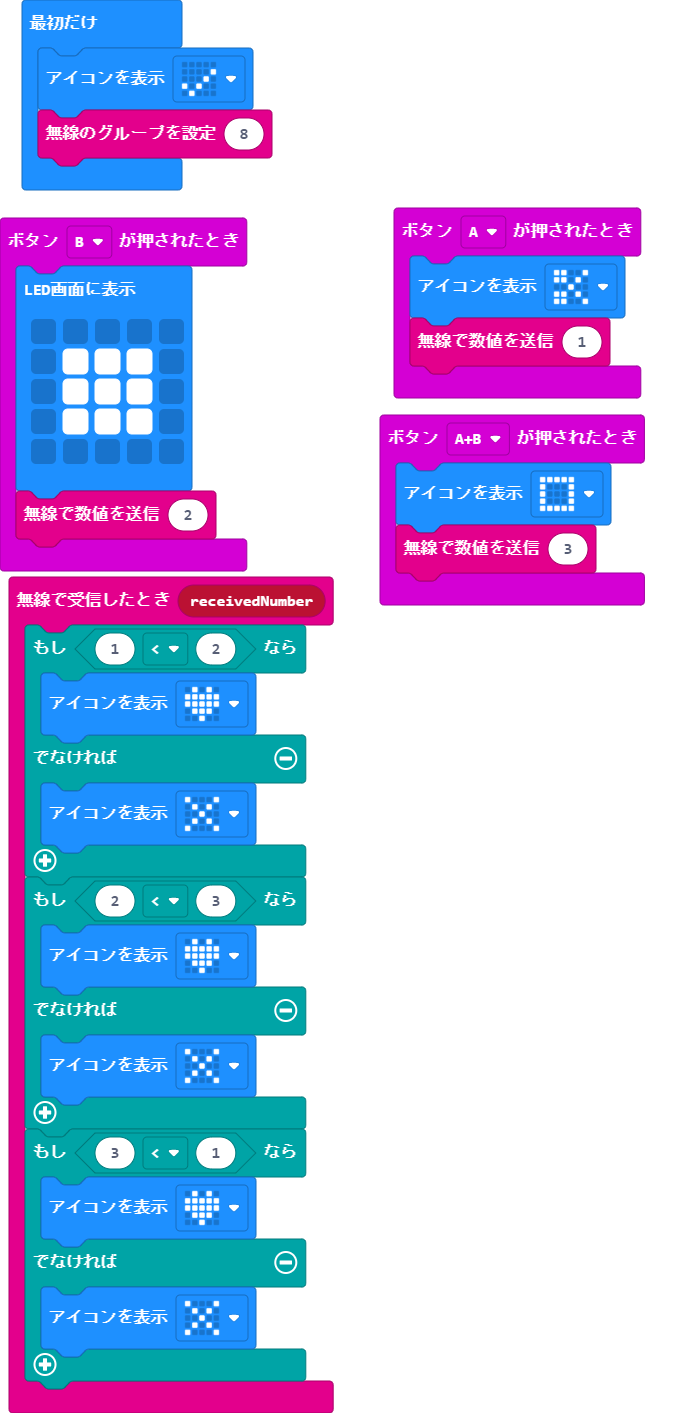
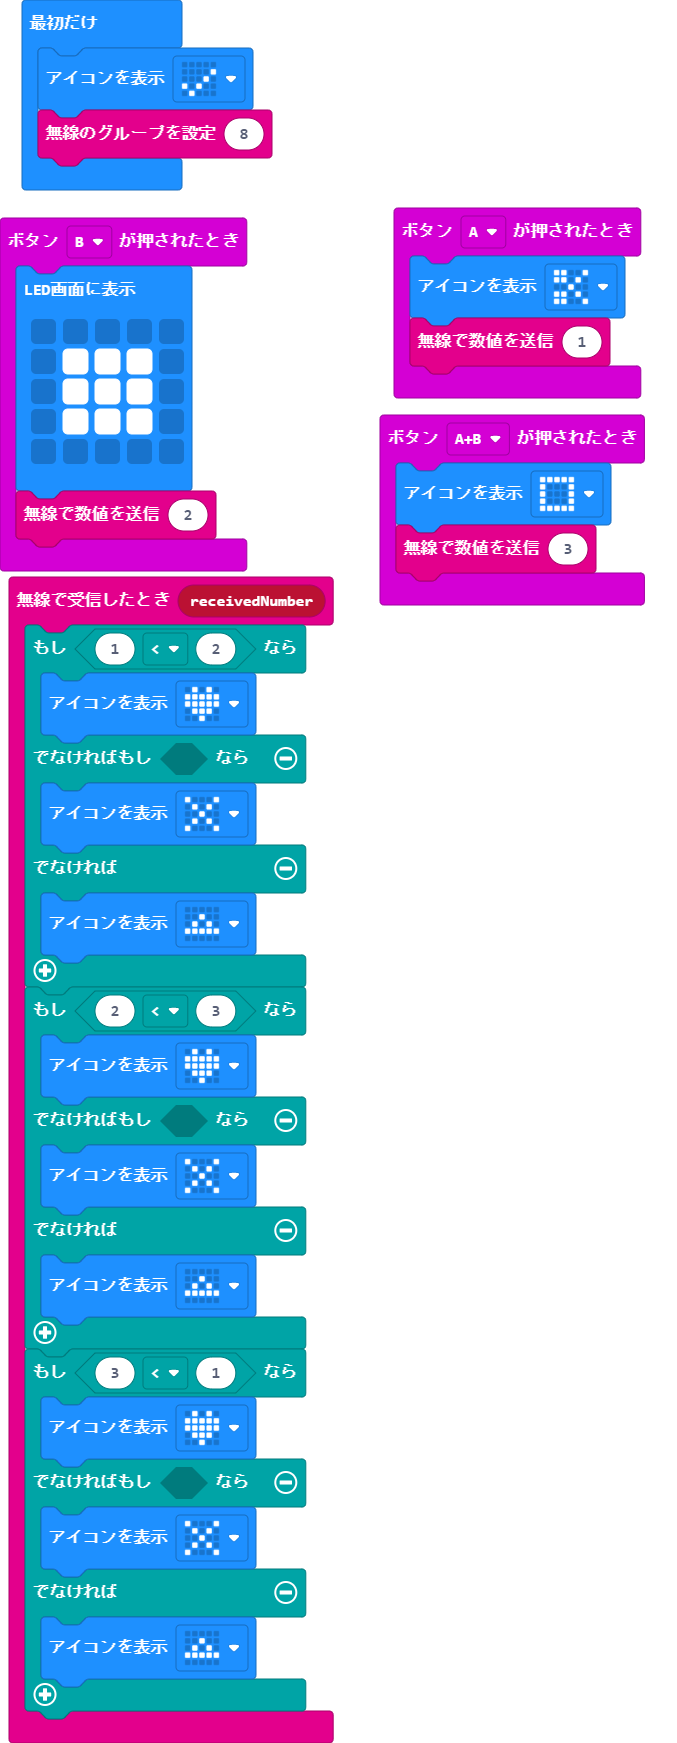
Update main.blocks, main.ts

diff --git a/main.ts b/main.ts
@@ -1,18 +1,24 @@
 radio.onReceivedNumber(function (receivedNumber) {
     if (1 < 2) {
         basic.showIcon(IconNames.Heart)
-    } else {
+    } else if (false) {
         basic.showIcon(IconNames.No)
+    } else {
+        basic.showIcon(IconNames.Triangle)
     }
     if (2 < 3) {
         basic.showIcon(IconNames.Heart)
-    } else {
+    } else if (false) {
         basic.showIcon(IconNames.No)
+    } else {
+        basic.showIcon(IconNames.Triangle)
     }
     if (3 < 1) {
         basic.showIcon(IconNames.Heart)
-    } else {
+    } else if (false) {
         basic.showIcon(IconNames.No)
+    } else {
+        basic.showIcon(IconNames.Triangle)
     }
 })
 input.onButtonPressed(Button.A, function () {
